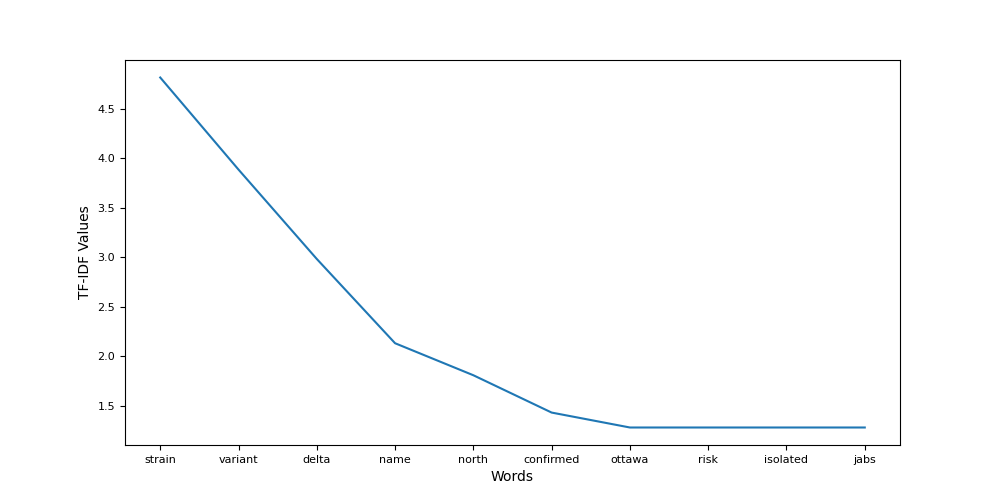
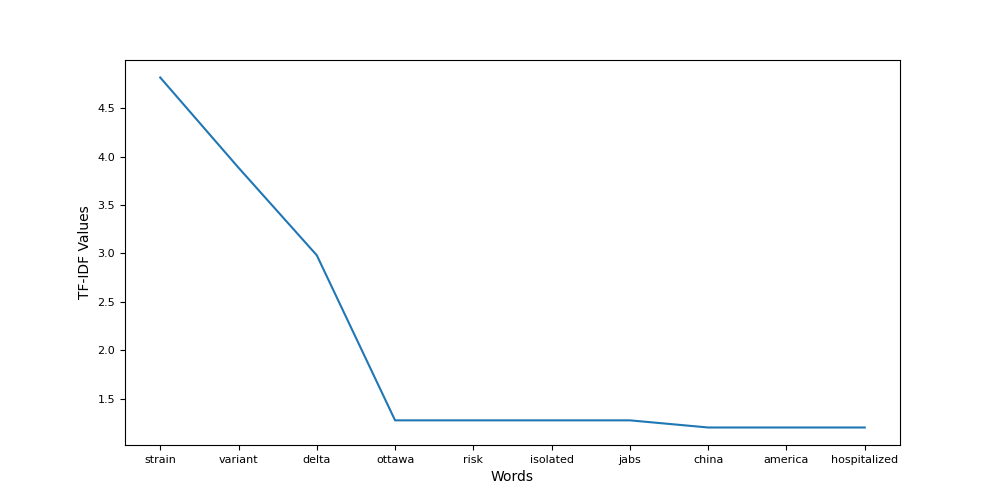
Fixed Stopwords

diff --git a/598-Project/tf_idf.py b/598-Project/tf_idf.py
@@ -57,7 +57,9 @@ def word_counts(dialog, output_file):
                  'what', 'when', 'where', 'whether', 'which', 'while', 'who', 'whole', 'whose', 'why', 'will', 'with',
                  'within', 'without', 'work', 'worked', 'working', 'works', 'would', 'x', 'y', 'year', 'years', 'yet',
                  'you', 'young', 'younger', 'youngest', 'your', 'yours', 'z', 'https', 'dr', 'sunday', 'iowans', 'st',
-                 'fine', 'move', '']
+                 'fine', 'move', '', "bad", "demand", "wear", "demand", "believe", "panel", "count", "name", "north",
+                 "confirmed", "hit", "million", "bad", "offer", "hope", "team", "half", "please", "hard", "lost", "ass","friday", "thanks", "thank", "november"
+                 ]
 
     with open(dialog, "r") as inp:
         df = pd.read_csv(inp, sep="\t")
